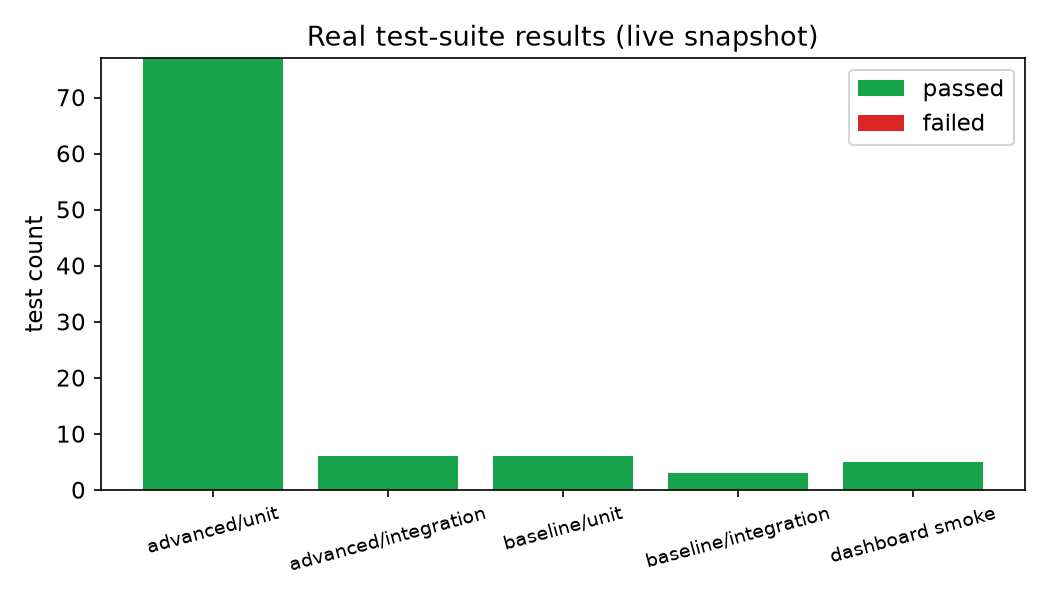
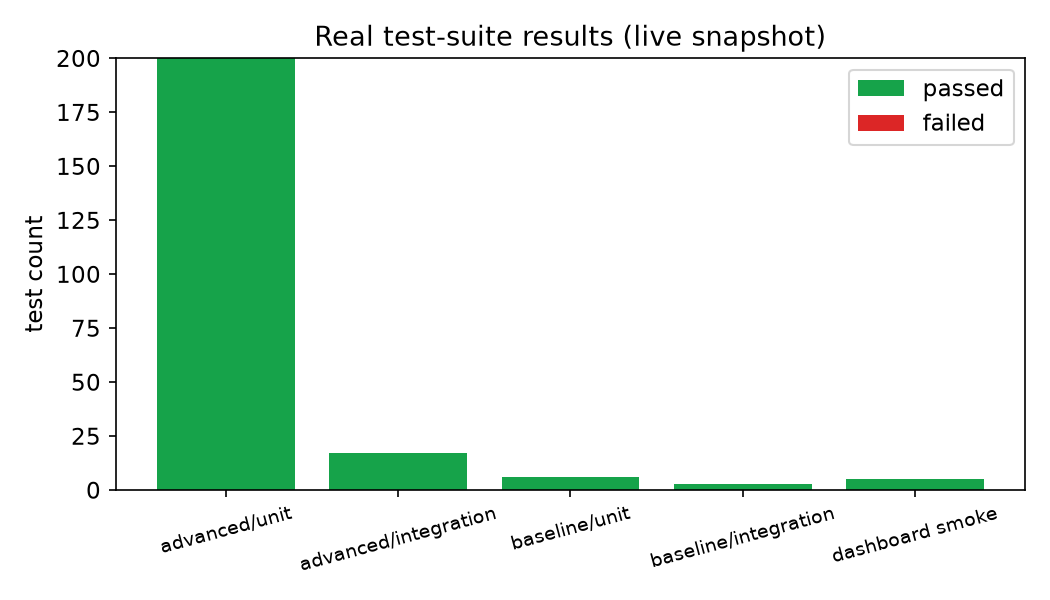
docs(changelog): #26 full-repo bug sweep; refresh test snapshot, charts, eval evidence
Claude-Session: https://claude.ai/code/session_01NRDSNLPkLpggDuy13Y4Stf

diff --git a/CHANGELOG.md b/CHANGELOG.md
@@ -447,6 +447,22 @@
 
 ---
 
+### #26 — Full-Repo Bug Sweep: a Broken Makefile, False "Hallucination" Rejections, a Silent LLM Gate Bypass, and Two Path Bugs — 2026-09-27 — Hardening
+
+- **What was asked:** review the entire repo, fix every bug/logic flaw/weakness found, verify each fix, and make the harness production-ready.
+- **Build & tests:** the `Makefile` did not parse (`missing separator` in `help`), so *every* `make` target failed; a UTF-8 BOM also turned `.PHONY` into a bogus target. `make test-unit` errored at collection (`advanced.src` imports from inside `advanced/`). Three advanced tests failed whenever run in one session with `tests/e2e` (it evicted `src.*` modules, so later monkeypatches hit a duplicate module). `make test-coverage` failed its advertised 80% gate (73%). All fixed; suite grew from ~100 to ~235 tests; coverage 80%.
+- **Verifier false rejections (headline-number change):** `_check_contract_span` searched only the first 8,000 characters of the whitespace-normalized contract, so every genuine verbatim span past page ~3 that contained a line break was rejected as "hallucinated". All 8 advanced REJECTs on the 30-contract suite were this bug. The evaluator also counted baseline's genuine "Uncapped Liability" spans as unsupported purely over a clause-type label mismatch. Corrected: unsupported edits baseline 42.9% / advanced 0% (was reported 78.6% / 16.3%); est. review time 4.5 → 3.0 min (was 5.1 → 3.4). CUAD presence numbers are unaffected (extraction types unchanged) — the CUAD download is egress-blocked in this environment, so that file was not regenerated.
+- **Parsing:** number words were substring-matched (`"thirty-six months"` → 6, `"written notice of ninety days"` → 10); the risk stage ignored spelled-out numbers and year terms entirely and read `"12 monthly installments"` as 12 months. New word-bounded duration parser shared by risk + Trap-A; renewal lookup skips the initial term.
+- **Duplicates:** one clause matched by two patterns (or by both Cap/Limitation of Liability) produced two identical redlines and duplicate Trap-A/Trap-B interactions.
+- **LLM layer:** a model reply `"supported": "false"` (string) was parsed with `bool()` → *supported* — the LLM's rejection was silently ignored. Verdict parsing is now strict and shared by both engines; any provider's key used to enable live calls to a different provider's model; the graph's revise loop paid for a second LLM call on already-passed findings.
+- **API/security:** `/api/harness/stream` built a file path from `contract_id` (`../..` read arbitrary `.txt` files); `/api/redline` ran the synchronous harness inside the event loop, blocking all requests and making its 30s timeout unreachable; CORS combined `*` with credentials; resuming a never-paused thread returned an empty 200 "complete" result.
+- **Engine parity:** graph mode echoed `harness_mode="auto"`, skipped validation/truncation and memory updates, and reported 10 differently-shaped coverage gaps where direct reports one.
+- **Other:** Word redline had dangling comment references (Word rejects the file), `w:t` inside `w:del`, colliding revision ids; per-log-line JSON rewrites were ~75% of pipeline latency and unsafe under concurrency (now opt-in, atomic); Docker healthchecks used `curl` (absent in `python:3.11-slim`); `make reproduce` aborted when CUAD couldn't be downloaded; docs claimed a thread-pool eval mode that was never wired up.
+- **Also added:** a one-page architecture diagram, `docs/architecture.svg` / `.png`, embedded in README and ARCHITECTURE.md.
+- **Links:** branch `fix/harness-issues`; tests in `advanced/tests/unit/test_{parsing_and_verify,llm_verdicts,report,thinking,infra,failure_paths,robustness}.py` and `advanced/tests/integration/test_api.py`.
+
+---
+
 ### Final Gate — 2026-08-31 (Phase 6)
 
 > **If submitted to a highly competitive hackathon today, is there a credible reason judges would place this in Top 3?** — Yes. Three things most agentic-workflow submissions don't have together: (1) a primary metric measured against real, independent, expert-labeled ground truth (CUAD, NeurIPS 2021 — 510 contracts) rather than self-authored gold labels, with the self-graded metric explicitly demoted to a secondary regression signal; (2) real agentic depth — a genuine LangGraph state machine with a working `interrupt()` human-in-the-loop pause and a Reflection-pattern revise loop, not a single prompt call; (3) a development record that shows the same self-audit discipline applied repeatedly and late — CHANGELOG #21–#23 found and fixed real bugs and a recurrence of self-graded scoring theater in the final review pass, not just at kickoff.

diff --git a/README.md b/README.md
@@ -242,7 +242,7 @@ works without touching `advanced`.
 
 - [`ARCHITECTURE.md`](ARCHITECTURE.md) — design, trade-offs, latency SLO, market anchoring
 - [`REPRODUCTION.md`](REPRODUCTION.md) — clean-environment setup, versions, cost
-- [`CHANGELOG.md`](CHANGELOG.md) — 24 evidence-linked iterations (what failed, what changed, what it taught)
+- [`CHANGELOG.md`](CHANGELOG.md) — 26 evidence-linked iterations (what failed, what changed, what it taught)
 - [`docs/problem-brief.md`](docs/problem-brief.md) — problem definition
 - [`docs/evaluation-criteria.md`](docs/evaluation-criteria.md) — benchmark methodology
 - [`docs/11-IMPLEMENTATION-PLAN.md`](docs/11-IMPLEMENTATION-PLAN.md) — technical plan

diff --git a/evidence/benchmarks/comparison.md b/evidence/benchmarks/comparison.md
@@ -144,8 +144,8 @@ LLM Judge mode: **partial-live (9/16 calls reached the model, rest fell back to 
 ## Latency (p50 / p95 ms, measured on 30 contracts, this machine)
 | System | p50 | p95 | Delta p95 |
 |--------|-----|-----|-----------|
-| Baseline | 0.7 | 1.1 | — |
-| Advanced | 5.0 | 9.3 | +8.3 |
+| Baseline | 0.6 | 1.1 | — |
+| Advanced | 5.5 | 8.1 | +7.0 |
 
 ## Fixture suite composition (disclosed, not hidden)
 Of the 30 contracts in this suite, **18 contain hand-authored "ADDENDUM TRAP
